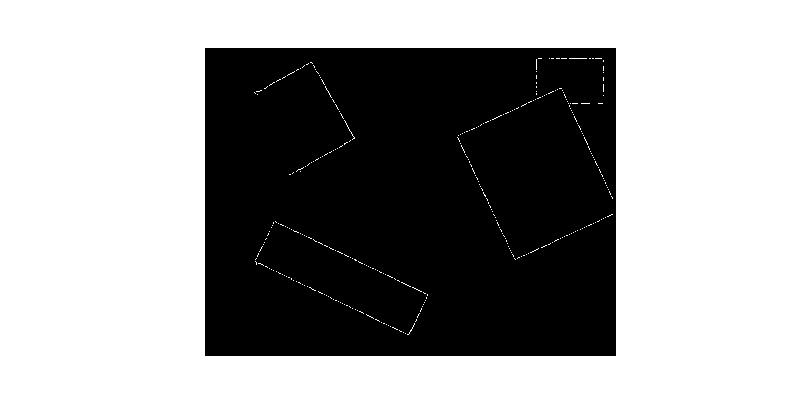
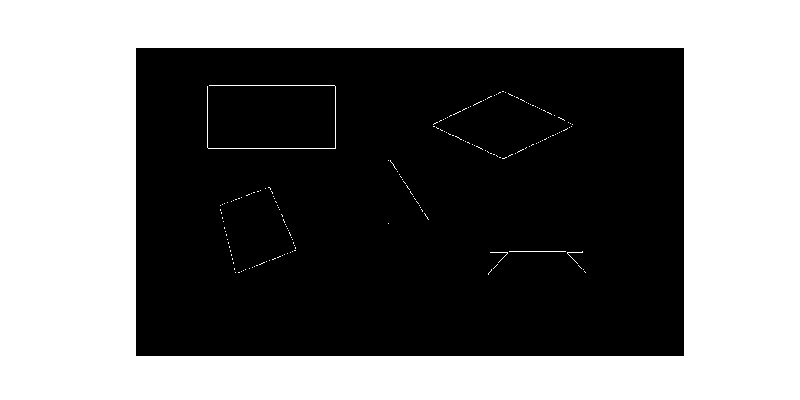
fix bugs

diff --git a/Image Parallelogram Delection/main.py b/Image Parallelogram Delection/main.py
@@ -10,23 +10,22 @@ import hough
 import operation
 import blur
 
-image_rgb = mpimg.imread('rectangles/artificial.jpg')    #Reading image to array
-image_gray = operation.rgb2gray(image_rgb)                #Converting rgb to gray
+image_rgb = mpimg.imread('rectangles/Parallelogram.jpg')    #Reading image to array
+image_gray = operation.rgb2gray(image_rgb)               #Converting rgb to gray
 
-image_gray = blur.gaussianblur(image_gray)               #Smooth the image using Gaussian Filter
+# image_gray = blur.gaussianblur(image_gray)               #Smooth the image using Gaussian Filter
+image_gray = blur.blurImage(image_gray)                 #Smooth the image using Mean Filter
 
 endtime = time.clock()
 print "time1 %f\n" % (endtime - starttime)
 
-plt.imshow(image_gray)
-
 ##Save smoothed picture to jpg
 fig, ax1 = plt.subplots(ncols=1, nrows=1, figsize=(8, 4))
 ax1.set_axis_off()
-ax1.imshow(edged, cmap="bone")
+ax1.imshow(image_gray, cmap="bone")
 fig.savefig("tmp/smooth.jpg")
 
-edged = cv2.Canny(image_gray, 30, 130)                   #Finding edges, This is the only place we use OpenCV
+edged = cv2.Canny(image_gray, 30, 100)                   #Finding edges, This is the only place we use OpenCV
 
 endtime = time.clock()
 print "time2 %f\n" % (endtime - starttime)
@@ -36,12 +35,13 @@ print "time2 %f\n" % (endtime - starttime)
 borderLen = 5                         #The width to zero out the borders, counted in pixels
 lenx, leny = edged.shape
 
+"""
 edged[0:borderLen,0:leny] = 0
 edged[lenx-borderLen:lenx,0:leny] = 0
 edged[0:lenx,0:borderLen] = 0
 edged[0:lenx,leny-borderLen:leny] = 0
 plt.imshow(edged)                     #Take a look at the edged picture
-
+"""
 ##Save edged picture to jpg
 fig, ax1 = plt.subplots(ncols=1, nrows=1, figsize=(8, 4))
 ax1.set_axis_off()
@@ -57,14 +57,12 @@ rho,theta = hough.houghLines(edged,
                                        thresholdPixels=0)
                               
 
-hough.plotHoughLines(rho,theta,image_rgb)
+# hough.plotHoughLines(rho,theta,image_rgb)
 
 endtime = time.clock()
 print "time3 %f\n" % (endtime - starttime)
 
 ##Parameters for finding parallel lines
-theta2=theta+np.pi/2
-theta3=theta-np.pi/2
 difference=np.pi/90
 differenceRho=2
 
@@ -72,20 +70,18 @@ differenceRho=2
 accumParallel=[]
 for i in range (0, len(theta)):
     for j in range (i+1, len(theta)):
-        if theta[j]>(theta[i]-difference) and theta[j]<(theta[i]+difference):
-             if rho[j]<(rho[i]-differenceRho) or rho[j]>(rho[i]+differenceRho):
-                accumParallel.append([i,j])
+        if abs(theta[i] - theta[j]) < difference and abs(rho[i] - rho[j]) > differenceRho:
+            accumParallel.append([i,j])
 
 fourLines=[]
 
-
-endtime = time.clock()
-print "time2 %f\n" % (endtime - starttime)
+print("accumParallel", len(accumParallel))
 
 #find perpendicular pairs for parallel pairs
 for i in range (0, len(accumParallel)):
-    for j in range (1, len(accumParallel)):
-        if     (theta2[accumParallel[j][0]]>(theta[accumParallel[i][0]]-difference) and theta2[accumParallel[j][0]]<(theta[accumParallel[i][0]]+difference)) \
+    for j in range (i+1, len(accumParallel)):
+        """
+        if     (abs(theta[accumParallel[j][0]] - theta[accumParallel[i][0]]) < difference) \
             or (theta2[accumParallel[j][1]]>(theta[accumParallel[i][0]]-difference) and theta2[accumParallel[j][1]]<(theta[accumParallel[i][0]]+difference)) \
             or (theta2[accumParallel[j][0]]>(theta[accumParallel[i][1]]-difference) and theta2[accumParallel[j][0]]<(theta[accumParallel[i][1]]+difference)) \
             or (theta2[accumParallel[j][1]]>(theta[accumParallel[i][1]]-difference) and theta2[accumParallel[j][1]]<(theta[accumParallel[i][1]]+difference)) \
@@ -93,133 +89,163 @@ for i in range (0, len(accumParallel)):
             or (theta3[accumParallel[j][1]]>(theta[accumParallel[i][0]]-difference) and theta3[accumParallel[j][1]]<(theta[accumParallel[i][0]]+difference)) \
             or (theta3[accumParallel[j][0]]>(theta[accumParallel[i][1]]-difference) and theta3[accumParallel[j][0]]<(theta[accumParallel[i][1]]+difference)) \
             or (theta3[accumParallel[j][1]]>(theta[accumParallel[i][1]]-difference) and theta3[accumParallel[j][1]]<(theta[accumParallel[i][1]]+difference)):
-                fourLines.append(np.concatenate([accumParallel[i],accumParallel[j]]))
-    
+        """
+        if (abs(theta[accumParallel[j][0]] - theta[accumParallel[i][0]]) > difference) \
+            or (abs(theta[accumParallel[j][0]] - theta[accumParallel[i][1]]) > difference) \
+            or (abs(theta[accumParallel[j][1]] - theta[accumParallel[i][0]]) > difference) \
+            or (abs(theta[accumParallel[j][1]] - theta[accumParallel[i][1]]) > difference):
+            fourLines.append(np.concatenate([accumParallel[i],accumParallel[j]]))
 
-endtime = time.clock()
-print "time3 %f\n" % (endtime - starttime)
+print("fourline", len(fourLines))
 
-fourLines=operation.unique(fourLines)
+fourLines = operation.unique(fourLines)
+
 
 #solve 4 of equations for 4 corners
 #rho_j = x cos(theta_j) + y sin(theta_j)
 #rho_k = x cos(theta_k) + y sin(theta_k)
 corners=[]
 for quads in range (0, len(fourLines)):
+    flag = True
     cornersTemp=[]
     for lines in range (0,4):
         if lines in [0,1]:
-            linesi=lines
-            nexti=2
+            linesi = lines
+            nexti = 2
         if lines == 2:
-            linesi=0
-            nexti=3
+            linesi = 0
+            nexti = 3
         if lines == 3:
-            linesi=1
-            nexti=1
-        b=np.array([rho[fourLines[quads][linesi]],rho[fourLines[quads][linesi+nexti]]])
-        a=np.array([[np.cos(theta[fourLines[quads][linesi]]),
+            linesi = 1
+            nexti = 1
+        b = np.array([rho[fourLines[quads][linesi]],rho[fourLines[quads][linesi+nexti]]])
+        a = np.array([[np.cos(theta[fourLines[quads][linesi]]),
                      np.sin(theta[fourLines[quads][linesi]])],
                     [np.cos(theta[fourLines[quads][linesi+nexti]]),
                      np.sin(theta[fourLines[quads][linesi+nexti]])]])
-        ans = np.linalg.solve(a, b)
-        cornersTemp.append([int(ans[0]),int(ans[1])])
-    corners.append(cornersTemp)
+        try:
+            ans = np.linalg.solve(a, b)
+            cornersTemp.append([int(ans[0]),int(ans[1])])
+        except:
+            # print a,b
+            flag = False
+            break
+    if flag:
+        corners.append(cornersTemp)
+
+print len(corners)
 
 #reorder corners
-corners=operation.reorderPoints(corners)
+corners = operation.reorderPoints(corners)
 
-#check if valid rectangles
-for i in range (len(corners)-1,-1,-1):
+print len(corners)
 
-    minx=np.min(np.array(corners[i])[:,0])
-    maxx=np.max(np.array(corners[i])[:,0])
-    miny=np.min(np.array(corners[i])[:,1])
-    maxy=np.max(np.array(corners[i])[:,1]) 
-    
-    height=operation.getLength(corners[i][0],corners[i][1])
-    width=operation.getLength(corners[i][2],corners[i][1])
-    
-    #remove wrongs if small
-    if height<20 or width<20 or maxy-miny<10 or maxx-minx<10:
-        del corners[i]
-        continue
-    
-    
-    xlin=np.array(np.linspace(corners[i][0][0],corners[i][2][0],20)).astype(int)
-    ylin=np.array(np.linspace(corners[i][0][1],corners[i][2][1],20)).astype(int)
-    xlin2=np.array(np.linspace(corners[i][1][0],corners[i][3][0],20)).astype(int)
-    ylin2=np.array(np.linspace(corners[i][1][1],corners[i][3][1],20)).astype(int)
-    
-    #remove wrong rectangle if std
-    std=np.std(np.concatenate([image_gray[(ylin[2:-2]),(xlin[2:-2])],image_gray[(ylin2[2:-2]),(xlin2[2:-2])]]))
-    if std>7:
-        del corners[i]
-        continue
-    
-    #remove wrongs if brighter
-    averageInside=np.average(np.concatenate([image_gray[(ylin[2:-2]),(xlin[2:-2])],image_gray[(ylin2[2:-2]),(xlin2[2:-2])]]))
-    corners[i].append(corners[i][0])
-    delete=0
-    pixelsFromBorder=5
-    middlePoint=np.array([(corners[i][0][0]+corners[i][2][0])/2,(corners[i][0][1]+corners[i][2][1])/2])
-    for j in range (0,4):        
-        y=pixelsFromBorder*np.sin(operation.getAngle([0,0],[1,0],(np.array(corners[i][j+1])+np.array(corners[i][j]))/2-middlePoint,False))
-        x=pixelsFromBorder*np.cos(operation.getAngle([0,0],[1,0.01],(np.array(corners[i][j+1])+np.array(corners[i][j]))/2-middlePoint,False))
-        a=(np.array(corners[i][j+1])+np.array(corners[i][j]))/2+[int(x),int(y)]
-        if image_gray[a[1],a[0]]-averageInside<5:
-            delete=1
-    if delete==1:
-        del corners[i]
-        continue
-#        
-#Removing duplicates
-#Here we remove duplicate rectangles by finding the overlapping ones
-sumi=np.zeros(len(corners))
-middlePoint=np.zeros((len(corners),2))
-for i in range (len(corners)-1,-1,-1):
-    middlePoint[i]=np.array([(corners[i][0][0]+corners[i][2][0])/2,(corners[i][0][1]+corners[i][2][1])/2])
-    #check for edges
-    for j in range (0,4):
-        x1=corners[i][j][0]
-        x2=corners[i][j+1][0]
-        y1=corners[i][j][1]
-        y2=corners[i][j+1][1]
-        if x1!=x2:
-            m = (y2-y1)/(1.0*(x2-x1))
-            q = y2-m*x2
-            x = np.linspace(np.min([x1,x2]),np.min([np.max([x1,x2]),edged.shape[1]-5]),np.absolute(x2-x1)+1)
-            y = m*x+q
-        else:
-            y = np.linspace(np.min([y1,y2]),np.min([np.max([y1,y2]),edged.shape[1]-5]),np.max([y1,y2])-np.min([y1,y2])+1)
-            x = x1*np.ones(len(y))
-        sumi[i] += np.sum(edged[np.round(y).astype(int),np.round(x).astype(int)])/255.0
+if len(corners) > 0:
+    #check if valid rectangles
+    for i in range (len(corners)-1,-1,-1):
 
-maxDistance=10
-corners2=[]
-corners2.append(len(corners)-1)
-for i in range (len(corners)-2,-1,-1):
-    found=0
-    for j in range (len(corners2)-1,-1,-1):
-        if operation.getLength(middlePoint[corners2[j]],middlePoint[i])<=maxDistance:
-            found=1
-            if sumi[i]>sumi[corners2[j]]:
-                corners2[j]=i
-    if found==0:
-        corners2.append(i)
+        minx=np.min(np.array(corners[i])[:,0])
+        maxx=np.max(np.array(corners[i])[:,0])
+        miny=np.min(np.array(corners[i])[:,1])
+        maxy=np.max(np.array(corners[i])[:,1]) 
+    
+        height=operation.getLength(corners[i][0],corners[i][1])
+        width=operation.getLength(corners[i][2],corners[i][1])
+    
+        #remove wrongs if small
+        if height<20 or width<20 or maxy-miny<10 or maxx-minx<10:
+            del corners[i]
+            continue
+    
+    
+        xlin = np.array(np.linspace(corners[i][0][0],corners[i][2][0],20)).astype(int)
+        ylin = np.array(np.linspace(corners[i][0][1],corners[i][2][1],20)).astype(int)
+        xlin2 = np.array(np.linspace(corners[i][1][0],corners[i][3][0],20)).astype(int)
+        ylin2 = np.array(np.linspace(corners[i][1][1],corners[i][3][1],20)).astype(int)
+    
         
-fig2, ax1 = plt.subplots(ncols=1, nrows=1, figsize=(8, 4))
-ax1.imshow(image_rgb)
-ax1.set_axis_off()
-for i in corners2:   
-    corners[i].append(corners[i][0])
-    for j in range (0,4):
-        ax1.plot( [corners[i][j][0],corners[i][j+1][0]],[corners[i][j][1],corners[i][j+1][1]], 'xb-',linewidth=3)
 
-ax1.set_ylim([image_gray.shape[0],0])
-ax1.set_xlim([0,image_gray.shape[1]])
-fig2.savefig("tmp/output.jpg")
+        #remove wrong parallelogram if std
+        try:
+            std = np.std(np.concatenate([image_gray[(ylin[2:-2]),(xlin[2:-2])],image_gray[(ylin2[2:-2]),(xlin2[2:-2])]]))
+            if std>7:
+                del corners[i]
+                continue
+        except:
+        #remove wrong parallelogram if out of image
+            del corners[i]
+            continue
+    
+        #remove wrongs if brighter
+        averageInside=np.average(np.concatenate([image_gray[(ylin[2:-2]),(xlin[2:-2])],image_gray[(ylin2[2:-2]),(xlin2[2:-2])]]))
+        corners[i].append(corners[i][0])
+        delete=0
+        pixelsFromBorder=5
+        middlePoint=np.array([(corners[i][0][0]+corners[i][2][0])/2,(corners[i][0][1]+corners[i][2][1])/2])
+        for j in range (0,4):        
+            y=pixelsFromBorder*np.sin(operation.getAngle([0,0],[1,0],(np.array(corners[i][j+1])+np.array(corners[i][j]))/2-middlePoint,False))
+            x=pixelsFromBorder*np.cos(operation.getAngle([0,0],[1,0.01],(np.array(corners[i][j+1])+np.array(corners[i][j]))/2-middlePoint,False))
+            a=(np.array(corners[i][j+1])+np.array(corners[i][j]))/2+[int(x),int(y)]
+            if image_gray[a[1],a[0]]-averageInside<5:
+                delete=1
+        if delete==1:
+            del corners[i]
+            continue
+
+
+if len(corners) > 0:        
+    #Removing duplicates
+    #Here we remove duplicate rectangles by finding the overlapping ones
+    sumi=np.zeros(len(corners))
+    middlePoint=np.zeros((len(corners),2))
+    for i in range (len(corners)-1,-1,-1):
+        middlePoint[i]=np.array([(corners[i][0][0]+corners[i][2][0])/2,(corners[i][0][1]+corners[i][2][1])/2])
+        #check for edges
+        for j in range (0,4):
+            x1=corners[i][j][0]
+            x2=corners[i][j+1][0]
+            y1=corners[i][j][1]
+            y2=corners[i][j+1][1]
+            if x1!=x2:
+                m = (y2-y1)/(1.0*(x2-x1))
+                q = y2-m*x2
+                x = np.linspace(np.min([x1,x2]),np.min([np.max([x1,x2]),edged.shape[1]-5]),np.absolute(x2-x1)+1)
+                y = m*x+q
+            else:
+                y = np.linspace(np.min([y1,y2]),np.min([np.max([y1,y2]),edged.shape[1]-5]),np.max([y1,y2])-np.min([y1,y2])+1)
+                x = x1*np.ones(len(y))
+            sumi[i] += np.sum(edged[np.round(y).astype(int),np.round(x).astype(int)])/255.0
+
+if len(corners) > 0:
+    maxDistance = 10
+    corners2 = []
+    corners2.append(len(corners)-1)
+    for i in range(len(corners)-2,-1,-1):
+        found=0
+        for j in range (len(corners2)-1,-1,-1):
+            if operation.getLength(middlePoint[corners2[j]],middlePoint[i])<=maxDistance:
+                found=1
+                if sumi[i]>sumi[corners2[j]]:
+                    corners2[j]=i
+        if found==0:
+            corners2.append(i)
+        
+    fig2, ax1 = plt.subplots(ncols=1, nrows=1, figsize=(8, 4))
+    ax1.imshow(image_rgb)
+    ax1.set_axis_off()
+    for i in corners2:   
+        print i
+        corners[i].append(corners[i][0])
+        for j in range (0,4):
+            ax1.plot( [corners[i][j][0],corners[i][j+1][0]],[corners[i][j][1],corners[i][j+1][1]], 'xb-',linewidth=3)
+
 if len(corners)>0:
+    ax1.set_ylim([image_gray.shape[0],0])
+    ax1.set_xlim([0,image_gray.shape[1]])
+    fig2.savefig("tmp/output.jpg")
     plt.show()
 else:
     print ('No rectangles were found')
+
+endtime = time.clock()
+print "time4 %f\n" % (endtime - starttime)

diff --git a/Image Parallelogram Delection/hough.py b/Image Parallelogram Delection/hough.py
@@ -18,7 +18,7 @@ def houghLines(edged,rho_res,theta_res,thresholdVotes,filterMultiple,thresholdPi
     
     #Here we populate houghMatrix
     for rowId in range(rows):                               
-        for colId in range(columns):              
+        for colId in range(columns):               
           if edged[rowId, colId]>thresholdPixels:           #edged has values 0 or 255 in our case
             #for each theta we calculate rhoVal, then locate it in Hough space plane
             for thId in range(len(theta)):

diff --git a/Image Parallelogram Delection/operation.py b/Image Parallelogram Delection/operation.py
@@ -1,4 +1,5 @@
 import numpy as np
+import math
 
 def print_item(input):
     print(input.shape[0], input.shape[1], input)
@@ -16,11 +17,9 @@ def getLength(startPoint,secondPoint):
     """
     :Return the length between two points
     """
-
-
     v1x = secondPoint[0] - startPoint[0]
     v1y = secondPoint[1] - startPoint[1]
-    lenv = np.sqrt(v1x*v1x + v1y*v1y)
+    lenv = math.sqrt(v1x*v1x + v1y*v1y)
     return lenv
     
 def unique(a):

diff --git a/Image Parallelogram Delection/blur.py b/Image Parallelogram Delection/blur.py
@@ -1,6 +1,11 @@
 from operation import convolve
 import numpy as np
 
+def blurImage(image_gray):
+    kernel = np.ones((3,3),np.float32)/9
+    res = convolve(image_gray, kernel)
+    return np.round(res).astype(np.uint8)
+
 def gaussian_kernel(sigma, truncate=4.0):
     """
     Return Gaussian that truncates at the given number of standard deviations. 
